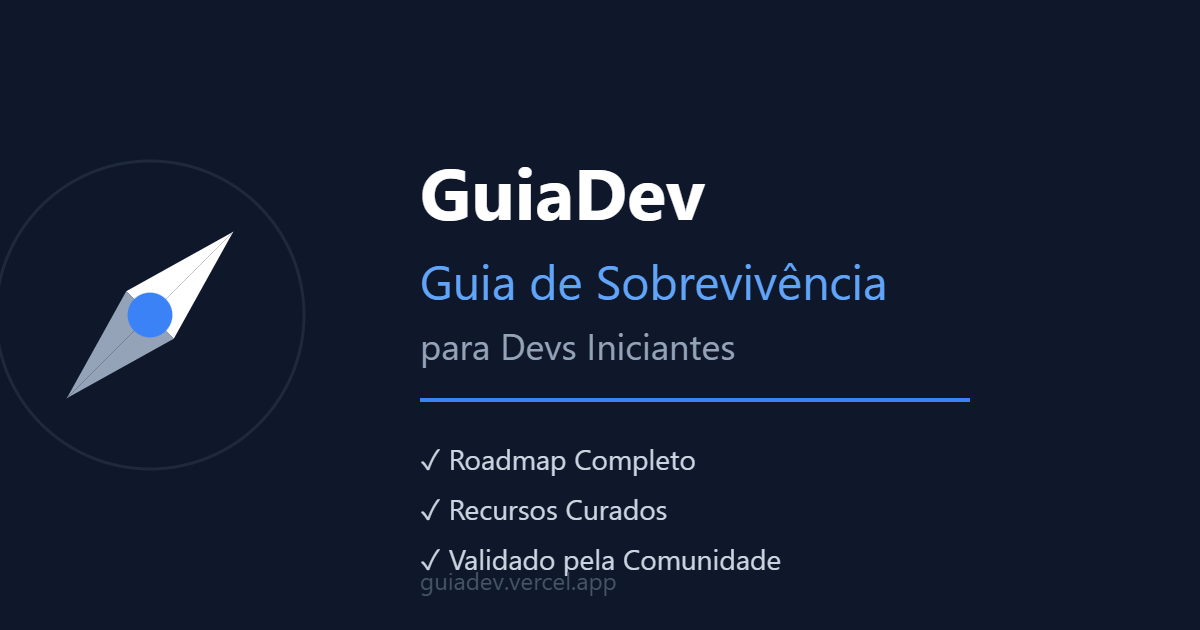
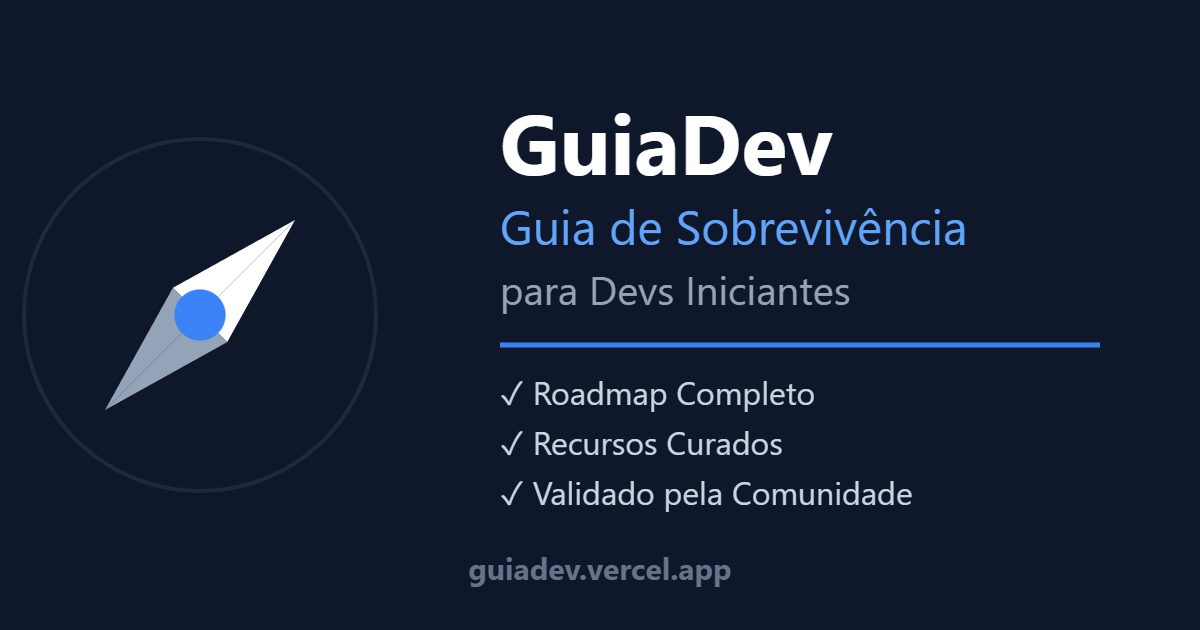
feat: melhora UX mobile e atualiza OG image
- Mobile: todas as fases do roadmap começam fechadas por padrão
- Melhora navegação mobile evitando scroll excessivo
- OG image: layout completamente redesenhado
- Texto centralizado verticalmente
- URL centralizada horizontalmente no rodapé
- Espaçamento otimizado entre elementos
- Ícone da bússola maior e melhor posicionado

diff --git a/src/components/common/RoadmapPhase.jsx b/src/components/common/RoadmapPhase.jsx
@@ -14,8 +14,8 @@ function RoadmapPhase({ number, title, description, checkpoints, project, checkb
     const checkMobile = () => {
       const mobile = window.innerWidth < 768;
       setIsMobile(mobile);
-      // Mobile: apenas primeira fase expandida
-      if (mobile && number > 1) {
+      // Mobile: todas as fases fechadas por padrão
+      if (mobile) {
         setExpanded(false);
       } else {
         setExpanded(true);
